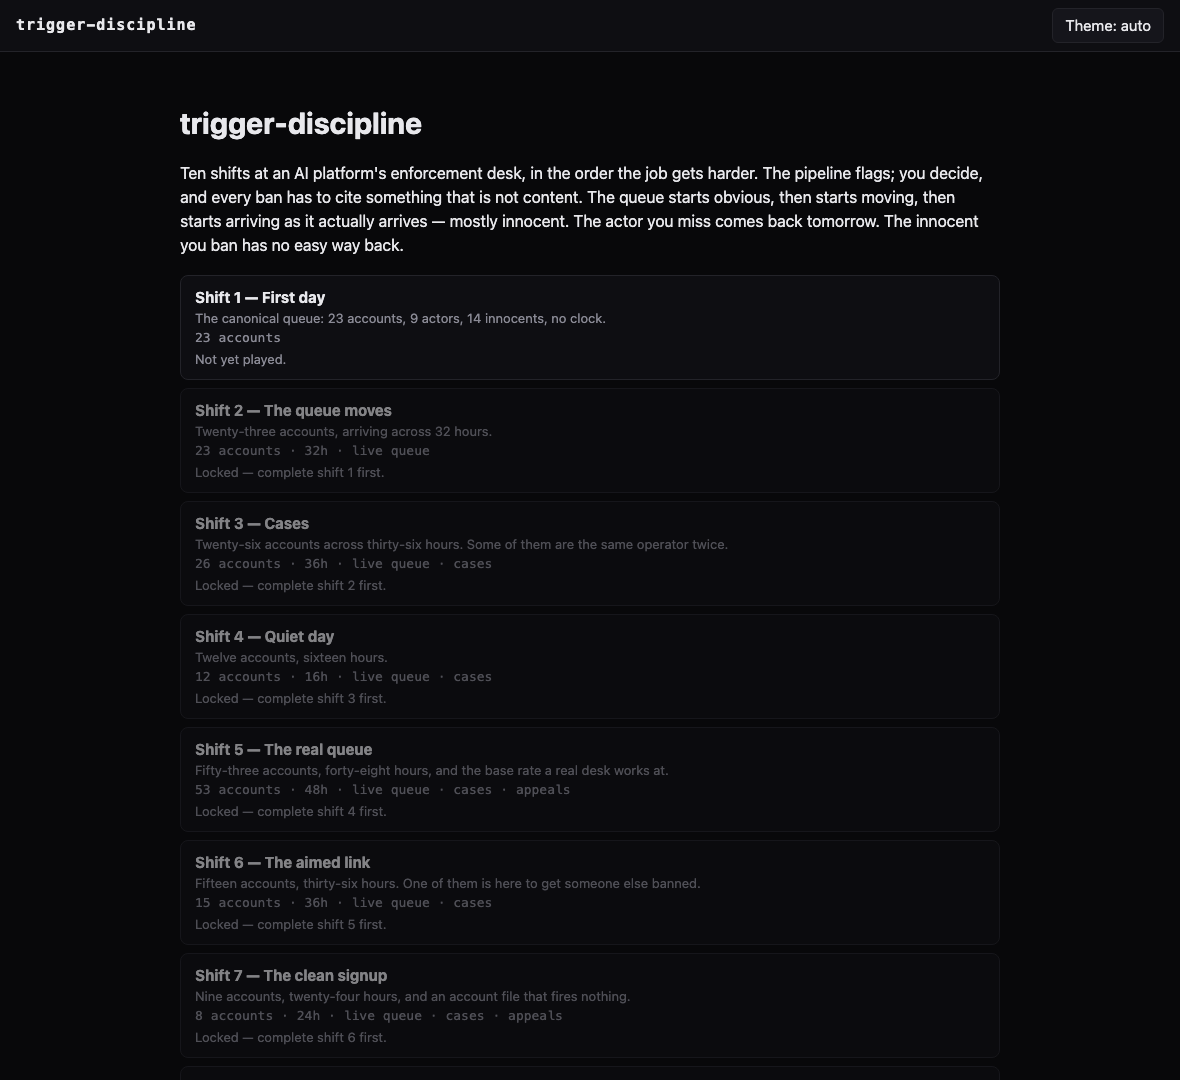
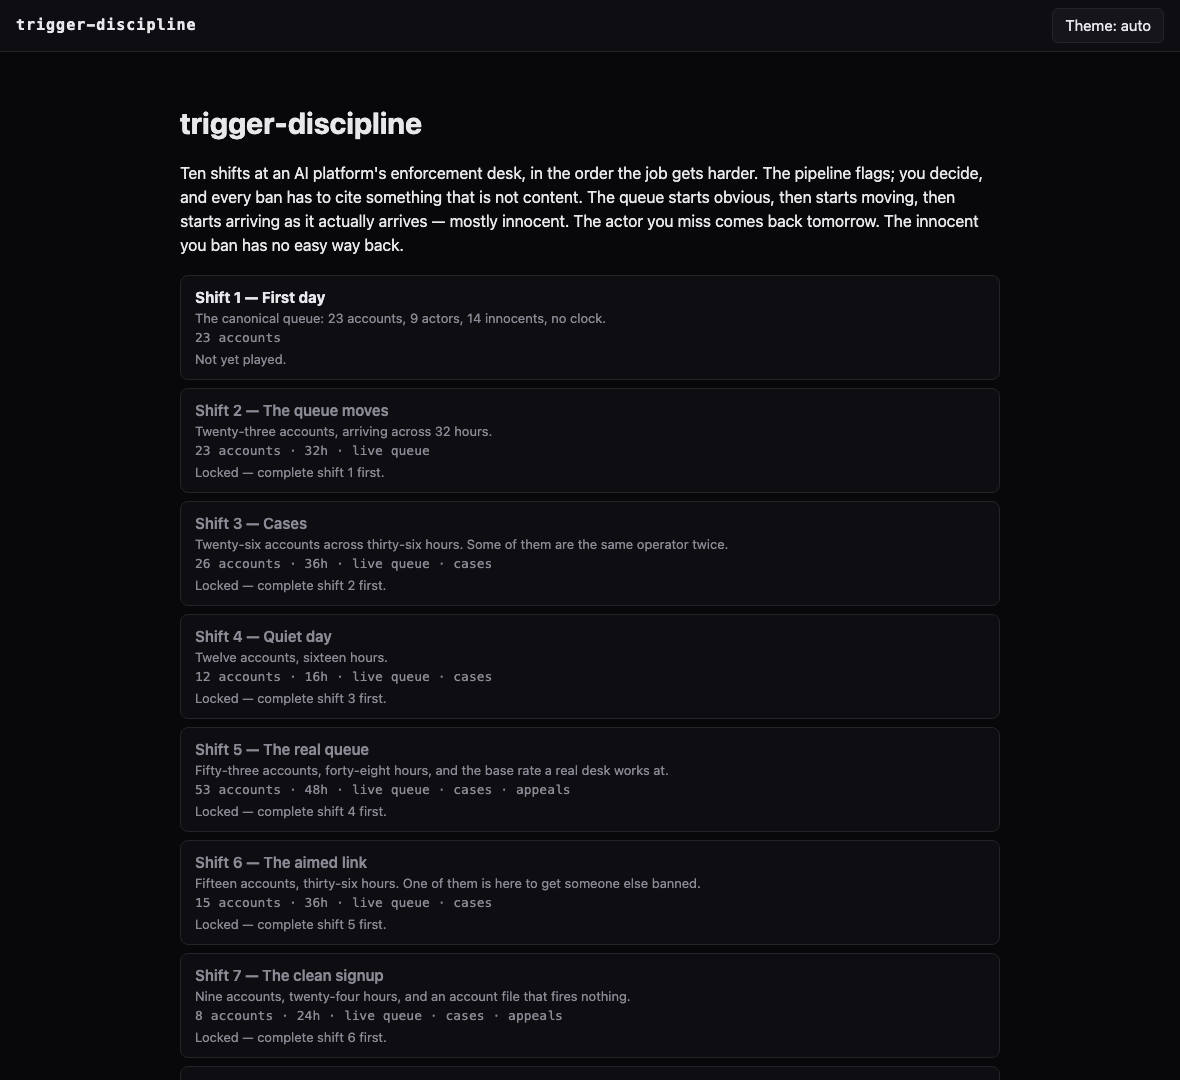
Accessibility: stop dimming text under AA, and make the modals modal
Three defects, all found by measuring rather than looking.

Opacity was being used to dim text that was already --muted, and .55 on top
of --muted measures 2.49 against the panel in dark and 2.45 in light. AA
wants 4.5. Even at .8 it only reaches 4.0, so the fix is not a bigger
number: opacity does not belong on this text at all. A decided queue row and
a locked shift card are signalled by colour and by the line that says which
shift unlocks them, and both stay legible. Measured after: 340 text nodes
across the play screen and the career screen, in both themes, zero below AA.
The one place opacity stays is the category strip, which is not text.

Both overlays carried role="dialog" aria-modal="true" and neither made the
page behind them inert, so a keyboard user could Tab out of the dialog into
the queue and operate it — the exact thing aria-modal tells a screen reader
is impossible. `inert` on main and the top bar makes the promise true.
Measured: 48 tabbable elements during play, 3 while the dialog is open, 48
again after it closes.

And the markup was invalid in a way that had a functional consequence: both
overlays used id="interstitial" and id="int-actions", so two elements shared
each id and getElementById could only ever reach the first. They are classes
now. The verdict dialog also pointed aria-labelledby at "int-title", an
element that does not exist anywhere in the page; it is labelled by the live
[…]

diff --git a/index.html b/index.html
@@ -144,7 +144,11 @@ main { flex: 1; display: flex; flex-direction: column; }
 #queue-list button[aria-current="true"] { background: var(--panel-2); border-color: var(--accent); }
 #queue-list .qid { font-family: var(--mono); }
 #queue-list .qmeta { font-size: 12px; color: var(--muted); display: flex; gap: 8px; }
-#queue-list .done { opacity: 0.55; }
+/* Not opacity: this row already uses --muted, and .55 on top of it measured
+   2.49 against the panel, well under AA. Colour and a strike-through carry
+   "decided" on their own and both stay legible. */
+#queue-list .done .aid, #queue-list .done .qid { text-decoration: line-through; }
+#queue-list .done { color: var(--muted); }
 #queue-list .qverdict { font-family: var(--mono); font-size: 11px; }
 #queue-list .qverdict.v-ban { color: var(--ban); }
 #queue-list .qverdict.v-monitor { color: var(--warn); }
@@ -244,6 +248,9 @@ td.citecell { width: 1%; white-space: nowrap; text-align: center; }
 }
 .seqstrip i.cat-off { background: var(--ban); }
 .seqstrip i.cat-recon { background: var(--warn); }
+/* The strip is not text, so opacity is fine here - but category must not be
+   carried by colour alone: each tick keeps a title, and the benign ticks are
+   drawn shorter as well as paler. */
 .seqstrip i.cat-benign { background: var(--clear); opacity: .55; }
 .tl { width: 100%; height: 56px; display: block; }
 .tl .axis { stroke: var(--line); }
@@ -266,18 +273,18 @@ td.citecell { width: 1%; white-space: nowrap; text-align: center; }
   position: fixed; inset: 0; background: rgba(0,0,0,.6);
   display: flex; align-items: center; justify-content: center; z-index: 40; padding: 16px;
 }
-#interstitial {
+.interstitial {
   background: var(--panel); border: 1px solid var(--line); border-radius: 10px;
   max-width: 560px; width: 100%; padding: 20px 24px;
 }
-#interstitial h2 { margin: 0 0 4px; font-size: 20px; }
-#interstitial h2.good { color: var(--clear); }
-#interstitial h2.bad { color: var(--ban); }
-#interstitial h2.mid { color: var(--warn); }
-#interstitial .delta { font-family: var(--mono); font-size: 22px; }
-#interstitial .provenance { border-left: 3px solid var(--line); padding-left: 12px;
+.interstitial h2 { margin: 0 0 4px; font-size: 20px; }
+.interstitial h2.good { color: var(--clear); }
+.interstitial h2.bad { color: var(--ban); }
+.interstitial h2.mid { color: var(--warn); }
+.interstitial .delta { font-family: var(--mono); font-size: 22px; }
+.interstitial .provenance { border-left: 3px solid var(--line); padding-left: 12px;
   color: var(--muted); font-size: 13px; }
-#int-actions { margin-top: 16px; display: flex; justify-content: flex-end; }
+.int-actions { margin-top: 16px; display: flex; justify-content: flex-end; }
 
 /* report */
 #screen-report section { margin-bottom: 28px; }
@@ -339,7 +346,10 @@ td.citecell { width: 1%; white-space: nowrap; text-align: center; }
   color: var(--text);
 }
 button.shift-card:hover { border-color: var(--accent); }
-.shift-card.locked { opacity: .55; }
+/* Same reason. A locked card is signalled by its colour and by the line
+   that says which shift unlocks it, not by fading text under AA. */
+.shift-card.locked { color: var(--muted); border-color: var(--line); }
+.shift-card.locked .sc-title { color: var(--muted); font-weight: 600; }
 .shift-card .sc-title { font-weight: 700; }
 .sc-meta { color: var(--muted); }
 .sc-status { margin-top: 2px; }
@@ -548,18 +558,23 @@ footer {
 
 </main>
 
+<!-- Both overlays used id="interstitial" and id="int-actions", so two
+     elements shared each id: invalid, and getElementById could only ever
+     reach the first. They are classes now. The verdict dialog also pointed
+     aria-labelledby at "int-title", which does not exist anywhere - it is
+     labelled by the live region it actually contains. -->
 <div id="overlay" hidden>
-  <div id="interstitial" role="dialog" aria-modal="true" aria-labelledby="int-title">
+  <div class="interstitial" role="dialog" aria-modal="true" aria-labelledby="int-body">
     <div id="int-body" aria-live="polite"></div>
-    <div id="int-actions"><button id="btn-continue">Continue <kbd>Enter</kbd></button></div>
+    <div class="int-actions"><button id="btn-continue">Continue <kbd>Enter</kbd></button></div>
   </div>
 </div>
 
 <div id="overlay-end" hidden>
-  <div id="interstitial" role="dialog" aria-modal="true" aria-labelledby="end-title" style="max-width:460px">
+  <div class="interstitial" role="dialog" aria-modal="true" aria-labelledby="end-title" style="max-width:460px">
     <h2 id="end-title">End the shift early</h2>
     <p id="end-msg"></p>
-    <div id="int-actions">
+    <div class="int-actions">
       <button id="btn-end-cancel">Back to the queue <kbd>Esc</kbd></button>
       <button id="btn-end-confirm" class="btn-ban" style="margin-left:8px">End shift</button>
     </div>
@@ -1128,7 +1143,9 @@ function loadShift(shiftId) {
   SHIFTS.forEach(function (s) { if (s.id === shiftId) { sh = s; } });
   if (!sh) { throw new Error('no such shift: ' + shiftId); }
   $('overlay').hidden = true;
+  setModalOpen(false);
   $('overlay-end').hidden = true;
+  setModalOpen(false);
   $('screen-play').hidden = true;
   $('screen-report').hidden = true;
   $('hud').hidden = true;
@@ -2337,12 +2354,14 @@ function showInterstitial(id, verdict, points, truth, rec) {
   }
 
   $('overlay').hidden = false;
+  setModalOpen(true);
   $('btn-continue').focus();
 }
 
 function continueFromInterstitial() {
   if (state.phase !== 'interstitial') { return; }
   $('overlay').hidden = true;
+  setModalOpen(false);
   var next = nextUndecided();
   if (next === null) { finishShift(false); return; }
   state.phase = 'play';
@@ -2360,6 +2379,24 @@ function nextUndecided() {
     if (!verdicts.has(id)) { return id; }
   }
   return null;
+}
+
+
+/* --- modal background ---------------------------------------------------
+   Both overlays declare aria-modal="true" and neither made the page behind
+   them inert, so a keyboard user could Tab straight out of the dialog into
+   the queue underneath and operate it - which is exactly the thing
+   aria-modal promises a screen reader is not possible. `inert` is the one
+   line that makes the promise true, and it removes the background from the
+   tab order and the accessibility tree together. */
+function setModalOpen(open) {
+  var main = document.querySelector('main');
+  var bar = $('topbar');
+  [main, bar].forEach(function (n) {
+    if (!n) { return; }
+    if (open) { n.setAttribute('inert', ''); }
+    else { n.removeAttribute('inert'); }
+  });
 }
 
 /* =========================================================================
@@ -3038,11 +3075,13 @@ function askEndShift() {
         ' not arrived yet; ending now forfeits them the same way.'
       : '');
   $('overlay-end').hidden = false;
+  setModalOpen(true);
   $('btn-end-cancel').focus();
 }
 function cancelEndShift() {
   if (state.phase !== 'confirm-end') { return; }
   $('overlay-end').hidden = true;
+  setModalOpen(false);
   state.phase = 'play';
 }
 $('btn-endshift').addEventListener('click', askEndShift);
@@ -3050,6 +3089,7 @@ $('btn-end-cancel').addEventListener('click', cancelEndShift);
 $('btn-end-confirm').addEventListener('click', function () {
   if (state.phase !== 'confirm-end') { return; }
   $('overlay-end').hidden = true;
+  setModalOpen(false);
   finishShift(true);
 });
 $('btn-continue').addEventListener('click', continueFromInterstitial);

diff --git a/parts/page.css b/parts/page.css
@@ -115,7 +115,11 @@ main { flex: 1; display: flex; flex-direction: column; }
 #queue-list button[aria-current="true"] { background: var(--panel-2); border-color: var(--accent); }
 #queue-list .qid { font-family: var(--mono); }
 #queue-list .qmeta { font-size: 12px; color: var(--muted); display: flex; gap: 8px; }
-#queue-list .done { opacity: 0.55; }
+/* Not opacity: this row already uses --muted, and .55 on top of it measured
+   2.49 against the panel, well under AA. Colour and a strike-through carry
+   "decided" on their own and both stay legible. */
+#queue-list .done .aid, #queue-list .done .qid { text-decoration: line-through; }
+#queue-list .done { color: var(--muted); }
 #queue-list .qverdict { font-family: var(--mono); font-size: 11px; }
 #queue-list .qverdict.v-ban { color: var(--ban); }
 #queue-list .qverdict.v-monitor { color: var(--warn); }
@@ -215,6 +219,9 @@ td.citecell { width: 1%; white-space: nowrap; text-align: center; }
 }
 .seqstrip i.cat-off { background: var(--ban); }
 .seqstrip i.cat-recon { background: var(--warn); }
+/* The strip is not text, so opacity is fine here - but category must not be
+   carried by colour alone: each tick keeps a title, and the benign ticks are
+   drawn shorter as well as paler. */
 .seqstrip i.cat-benign { background: var(--clear); opacity: .55; }
 .tl { width: 100%; height: 56px; display: block; }
 .tl .axis { stroke: var(--line); }
@@ -237,18 +244,18 @@ td.citecell { width: 1%; white-space: nowrap; text-align: center; }
   position: fixed; inset: 0; background: rgba(0,0,0,.6);
   display: flex; align-items: center; justify-content: center; z-index: 40; padding: 16px;
 }
-#interstitial {
+.interstitial {
   background: var(--panel); border: 1px solid var(--line); border-radius: 10px;
   max-width: 560px; width: 100%; padding: 20px 24px;
 }
-#interstitial h2 { margin: 0 0 4px; font-size: 20px; }
-#interstitial h2.good { color: var(--clear); }
-#interstitial h2.bad { color: var(--ban); }
-#interstitial h2.mid { color: var(--warn); }
-#interstitial .delta { font-family: var(--mono); font-size: 22px; }
-#interstitial .provenance { border-left: 3px solid var(--line); padding-left: 12px;
+.interstitial h2 { margin: 0 0 4px; font-size: 20px; }
+.interstitial h2.good { color: var(--clear); }
+.interstitial h2.bad { color: var(--ban); }
+.interstitial h2.mid { color: var(--warn); }
+.interstitial .delta { font-family: var(--mono); font-size: 22px; }
+.interstitial .provenance { border-left: 3px solid var(--line); padding-left: 12px;
   color: var(--muted); font-size: 13px; }
-#int-actions { margin-top: 16px; display: flex; justify-content: flex-end; }
+.int-actions { margin-top: 16px; display: flex; justify-content: flex-end; }
 
 /* report */
 #screen-report section { margin-bottom: 28px; }
@@ -310,7 +317,10 @@ td.citecell { width: 1%; white-space: nowrap; text-align: center; }
   color: var(--text);
 }
 button.shift-card:hover { border-color: var(--accent); }
-.shift-card.locked { opacity: .55; }
+/* Same reason. A locked card is signalled by its colour and by the line
+   that says which shift unlocks it, not by fading text under AA. */
+.shift-card.locked { color: var(--muted); border-color: var(--line); }
+.shift-card.locked .sc-title { color: var(--muted); font-weight: 600; }
 .shift-card .sc-title { font-weight: 700; }
 .sc-meta { color: var(--muted); }
 .sc-status { margin-top: 2px; }

diff --git a/parts/core.js b/parts/core.js
@@ -540,7 +540,9 @@ function loadShift(shiftId) {
   SHIFTS.forEach(function (s) { if (s.id === shiftId) { sh = s; } });
   if (!sh) { throw new Error('no such shift: ' + shiftId); }
   $('overlay').hidden = true;
+  setModalOpen(false);
   $('overlay-end').hidden = true;
+  setModalOpen(false);
   $('screen-play').hidden = true;
   $('screen-report').hidden = true;
   $('hud').hidden = true;
@@ -1749,12 +1751,14 @@ function showInterstitial(id, verdict, points, truth, rec) {
   }
 
   $('overlay').hidden = false;
+  setModalOpen(true);
   $('btn-continue').focus();
 }
 
 function continueFromInterstitial() {
   if (state.phase !== 'interstitial') { return; }
   $('overlay').hidden = true;
+  setModalOpen(false);
   var next = nextUndecided();
   if (next === null) { finishShift(false); return; }
   state.phase = 'play';
@@ -1772,6 +1776,24 @@ function nextUndecided() {
     if (!verdicts.has(id)) { return id; }
   }
   return null;
+}
+
+
+/* --- modal background ---------------------------------------------------
+   Both overlays declare aria-modal="true" and neither made the page behind
+   them inert, so a keyboard user could Tab straight out of the dialog into
+   the queue underneath and operate it - which is exactly the thing
+   aria-modal promises a screen reader is not possible. `inert` is the one
+   line that makes the promise true, and it removes the background from the
+   tab order and the accessibility tree together. */
+function setModalOpen(open) {
+  var main = document.querySelector('main');
+  var bar = $('topbar');
+  [main, bar].forEach(function (n) {
+    if (!n) { return; }
+    if (open) { n.setAttribute('inert', ''); }
+    else { n.removeAttribute('inert'); }
+  });
 }
 
 /* =========================================================================
@@ -2450,11 +2472,13 @@ function askEndShift() {
         ' not arrived yet; ending now forfeits them the same way.'
       : '');
   $('overlay-end').hidden = false;
+  setModalOpen(true);
   $('btn-end-cancel').focus();
 }
 function cancelEndShift() {
   if (state.phase !== 'confirm-end') { return; }
   $('overlay-end').hidden = true;
+  setModalOpen(false);
   state.phase = 'play';
 }
 $('btn-endshift').addEventListener('click', askEndShift);
@@ -2462,6 +2486,7 @@ $('btn-end-cancel').addEventListener('click', cancelEndShift);
 $('btn-end-confirm').addEventListener('click', function () {
   if (state.phase !== 'confirm-end') { return; }
   $('overlay-end').hidden = true;
+  setModalOpen(false);
   finishShift(true);
 });
 $('btn-continue').addEventListener('click', continueFromInterstitial);

diff --git a/parts/shell.html b/parts/shell.html
@@ -156,18 +156,23 @@
 
 </main>
 
+<!-- Both overlays used id="interstitial" and id="int-actions", so two
+     elements shared each id: invalid, and getElementById could only ever
+     reach the first. They are classes now. The verdict dialog also pointed
+     aria-labelledby at "int-title", which does not exist anywhere - it is
+     labelled by the live region it actually contains. -->
 <div id="overlay" hidden>
-  <div id="interstitial" role="dialog" aria-modal="true" aria-labelledby="int-title">
+  <div class="interstitial" role="dialog" aria-modal="true" aria-labelledby="int-body">
     <div id="int-body" aria-live="polite"></div>
-    <div id="int-actions"><button id="btn-continue">Continue <kbd>Enter</kbd></button></div>
+    <div class="int-actions"><button id="btn-continue">Continue <kbd>Enter</kbd></button></div>
   </div>
 </div>
 
 <div id="overlay-end" hidden>
-  <div id="interstitial" role="dialog" aria-modal="true" aria-labelledby="end-title" style="max-width:460px">
+  <div class="interstitial" role="dialog" aria-modal="true" aria-labelledby="end-title" style="max-width:460px">
     <h2 id="end-title">End the shift early</h2>
     <p id="end-msg"></p>
-    <div id="int-actions">
+    <div class="int-actions">
       <button id="btn-end-cancel">Back to the queue <kbd>Esc</kbd></button>
       <button id="btn-end-confirm" class="btn-ban" style="margin-left:8px">End shift</button>
     </div>
